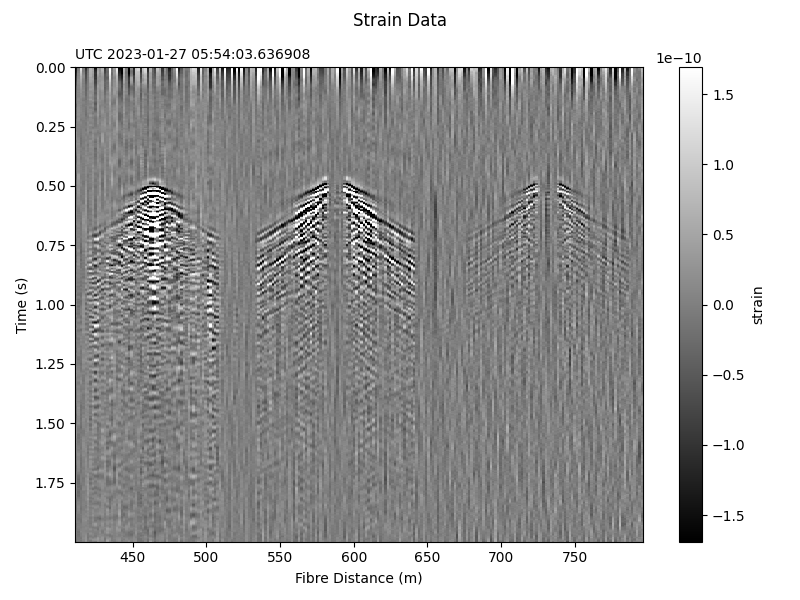
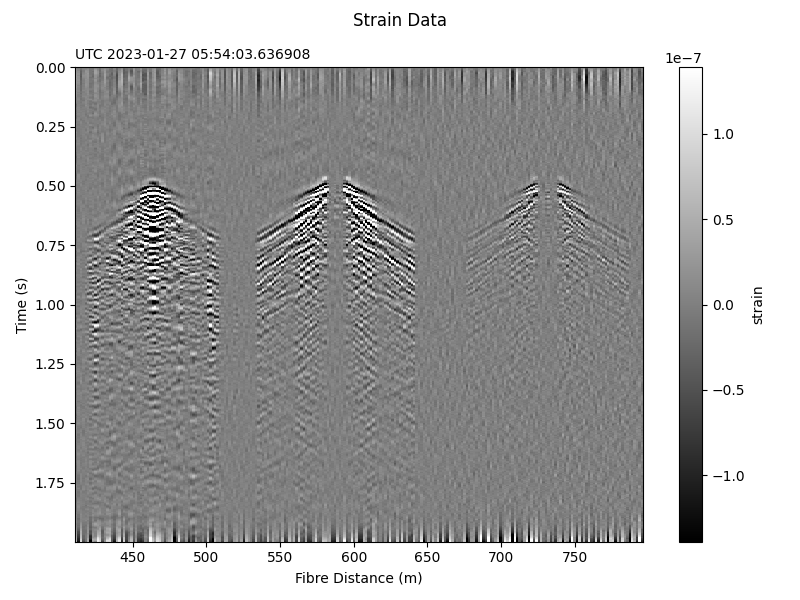
Added scripts to convert and re-save velocity HDF5 files in strainrate and strain. Update strain conversion in convert_to_strain.py

diff --git a/HDF5_samples/convert_hdf5_velocity_to_strain.py b/HDF5_samples/convert_hdf5_velocity_to_strain.py
@@ -1,0 +1,169 @@
+"""
+Convert a terra15 HDF5 file containing velocity data to a strain dataset with a specified gauge length and high-pass filter.
+Generates a new HDF5 file containing converted strain data.
+"""
+
+#####################################################################################################################
+# File to convert. Must be a Terra15 Treble .hdf5 data file in units of velocity.
+src_file = "../sample_data/example_triggered_shot.hdf5"
+GAUGE_LENGTH = 5 # (m)
+# High-pass filter cutoff frequency (Hz) applied to the strainrate data before integration to strain.
+HIGH_PASS_FREQ = 4 # (Hz)
+######################################################################################################################
+
+
+import h5py
+import numpy as np
+from scipy import signal
+import matplotlib.pyplot as plt
+
+
+def convert_velocity_to_strain(velocity, dx, dt, gauge_length_m, f_hp=0.1):
+    # First convert velocity to strainrate
+    strainrate, L_gauge = convert_velocity_to_strainrate(velocity, gauge_length_m, dx)
+
+    # Returns strain and exact gauge length
+    return convert_strainrate_to_strain(strainrate, dt, f_hp), L_gauge
+
+
+def convert_velocity_to_strainrate(velocity, gauge_length_m, dx):
+    n_gauge = int(round(gauge_length_m / dx))
+    L_gauge = n_gauge * dx
+    strainrate = (velocity[:, n_gauge:] - velocity[:, :-n_gauge]) / L_gauge
+    # Returns strainrate and exact gauge length
+    return strainrate, L_gauge
+
+
+def convert_strainrate_to_strain(strainrate, dt, f_hp=0.1):
+    # High-pass filter data at cutoff frequency f_hp
+    strainrate = highpass_filter(strainrate, f_hp, dt)
+
+    # Integrate filtered strainrate to strain
+    omega_0 = 2*np.pi*f_hp
+    b = np.array([dt, 0], dtype=strainrate.dtype)
+    a = np.array([1 + omega_0*dt,-1], dtype=strainrate.dtype)
+    strain = signal.lfilter(b, a, strainrate, axis=0)
+    return strain
+
+
+def highpass_filter(data, f_hp, dt):
+    fs = 1/dt
+    coeff = signal.butter(1, f_hp, btype="hp", fs=fs, output="sos")
+    data = signal.sosfiltfilt(coeff, data, axis=0)
+    return data.astype(data.dtype)
+
+
+def plot_data(data, t, x, title, fname=None):
+    plt.figure(figsize=(8, 6))
+
+    t_rel = t - t[0]
+
+    clim = np.max(np.abs(data))/10
+
+    plt.title(title, loc="center", fontsize=12)
+
+    plt.imshow(
+        data,
+        aspect="auto",
+        cmap="gray",
+        extent=(x[0], x[-1], t_rel[-1], t_rel[0]),
+        vmin=-clim,
+        vmax=clim,
+        interpolation="none"
+    )
+
+    cbar = plt.colorbar()
+
+    plt.xlabel("Fibre Distance (m)")
+    plt.ylabel("Time (s)")
+    plt.tight_layout()
+    if fname is not None:
+        plt.savefig(fname, dpi=300)
+
+
+def simple_load_data(hdf_path):
+    with h5py.File(hdf_path, "r") as f:
+        metadata = dict(f.attrs)
+        data = f["data_product/data"][:]
+        t = f["data_product/gps_time"][:]
+        x = metadata['sensing_range_start'] + np.arange(0, metadata['nx']) * metadata["dx"]
+        return data, metadata, t, x
+
+
+def convert_hdf5_to_strain(src_file, gauge_length_m, f_hp=0.1):
+    if src_file.endswith('.hdf5'):
+        dst_file = src_file.replace(".hdf5", f'converted_strainrate_{gauge_length_m}m_gauge.hdf5')
+    else:
+        raise ValueError("Source file must be an HDF5 file")
+    print(f"Converting {src_file} to strain with GAUGE {gauge_length_m} m, HP filter {f_hp} Hz")
+
+    # Check source file for velocity data
+    with h5py.File(src_file, 'r') as src_hdf:
+        if src_hdf.attrs['data_product'] != 'velocity':
+            print(f"Source file {src_file} does not contain velocity data")
+            return None
+
+        else:
+            # Recreate source file at destination location
+            with h5py.File(dst_file, "w") as dst_hdf:
+                # Copy top-level attributes
+                dst_hdf.attrs.update(src_hdf.attrs)
+
+                # Copy groups and datasets except the data_product dataset
+                for src_group_name, src_group in src_hdf.items():
+                    print(f"Copying group: {src_group_name}")
+                    dest_group = dst_hdf.create_group(src_group_name)
+                    for source_dset_name, source_dset in src_group.items():
+                        if source_dset_name == "data":
+                            # Copy and convert velocity dataset
+                            print(f"    Copying and converting dataset: {source_dset_name}")
+                            dx = dst_hdf.attrs['dx']
+                            dt = dst_hdf.attrs['dt_computer']
+                            velocity_data = source_dset[:]
+                            strain_data, L_gauge = convert_velocity_to_strain(velocity_data, dx, dt, gauge_length_m, f_hp)
+
+                            # Create the strain dataset
+                            dest_dataset = dest_group.create_dataset(source_dset_name, data=strain_data, dtype=source_dset.dtype)
+                            # Copy the attributes from the velocity dataset
+                            vel_attrs = dict(source_dset.attrs)
+                            dest_dataset.attrs.update(vel_attrs)
+
+                        else:
+                            print(f"    Copying dataset: {source_dset_name}")
+                            # Copies other datasets exactly
+                            dest_dataset = dest_group.create_dataset(source_dset_name, data=source_dset,
+                                                                     dtype=source_dset.dtype)
+                            dest_dataset.attrs.update(source_dset.attrs)
+
+                # Update the top-level attributes to strain
+                dst_hdf.attrs['data_product'] = 'strain'
+                dst_hdf.attrs['data_product_units'] = 'm/m'
+                dst_hdf.attrs['gauge_length'] = L_gauge
+
+        print(f"Converted data saved in {dst_file}")
+
+        return dst_file
+
+
+
+# Test load the original data
+data, md, t, x = simple_load_data(src_file)
+plot_data(data, t, x,
+          title=f"Velocity Data\n"
+                f"Pulse Length = {md['pulse_length']:.2f}m",
+          fname="convert_hdf5_velocity_to_strain_1.png")
+
+print(f"Original data shape: {data.shape}")
+
+# Perform the copy and transformation
+dst_file = convert_hdf5_to_strain(src_file, GAUGE_LENGTH, HIGH_PASS_FREQ)
+
+# Test load the converted data
+data, md, t, x = simple_load_data(dst_file)
+plot_data(data, t, x,
+          title=f"File converted to strain.\n"
+                f"Pulse Length = {md['pulse_length']:.2f}m, Gauge Length={md['gauge_length']:.2f}m, HP Filter={HIGH_PASS_FREQ}Hz",
+          fname="convert_hdf5_velocity_to_strain_2.png")
+print(f"Converted data shape: {data.shape}")
+
+plt.show()

diff --git a/HDF5_samples/convert_hdf5_velocity_to_strainrate.py b/HDF5_samples/convert_hdf5_velocity_to_strainrate.py
@@ -1,0 +1,130 @@
+"""
+Convert a terra15 HDF5 file containing velocity data to a strainrate dataset with a specified gauge length and high-pass filter.
+Generates a new HDF5 file containing converted strainrate data.
+"""
+
+#####################################################################################################################
+# File to convert. Must be a Terra15 Treble .hdf5 data file in units of velocity.
+src_file = "../sample_data/example_triggered_shot.hdf5"
+GAUGE_LENGTH = 5 # (m)
+######################################################################################################################
+
+import h5py
+import numpy as np
+import matplotlib.pyplot as plt
+
+
+def convert_velocity_to_strainrate(data, gauge_length_m, dx):
+    gauge_samples = int(round(gauge_length_m / dx))
+    exact_gauge = gauge_samples * dx
+    return (data[:, gauge_samples:] - data[:, :-gauge_samples]) / exact_gauge, exact_gauge
+
+
+def plot_data(data, t, x, title, fname=None):
+    plt.figure(figsize=(8, 6))
+
+    t_rel = t - t[0]
+
+    clim = np.max(np.abs(data))/10
+
+    plt.title(title, loc="center", fontsize=12)
+
+    plt.imshow(
+        data,
+        aspect="auto",
+        cmap="gray",
+        extent=(x[0], x[-1], t_rel[-1], t_rel[0]),
+        vmin=-clim,
+        vmax=clim,
+        interpolation="none"
+    )
+
+    cbar = plt.colorbar()
+
+    plt.xlabel("Fibre Distance (m)")
+    plt.ylabel("Time (s)")
+    plt.tight_layout()
+    if fname is not None:
+        plt.savefig(fname, dpi=300)
+
+
+def simple_load_data(hdf_path):
+    with h5py.File(hdf_path, "r") as f:
+        metadata = dict(f.attrs)
+        data = f["data_product/data"][:]
+        t = f["data_product/gps_time"][:]
+        x = metadata['sensing_range_start'] + np.arange(0, metadata['nx']) * metadata["dx"]
+        return data, metadata, t, x
+
+
+def convert_hdf5_to_strainrate(src_file, gauge_length_m):
+    if src_file.endswith('.hdf5'):
+        dst_file = src_file.replace(".hdf5", f'converted_strainrate_{gauge_length_m}m_gauge.hdf5')
+    else:
+        raise ValueError("Source file must be an HDF5 file")
+    print(f"Converting {src_file} to strainrate with GAUGE {gauge_length_m} m")
+
+    # Check source file for velocity data
+    with h5py.File(src_file, 'r') as src_hdf:
+        if src_hdf.attrs['data_product'] != 'velocity':
+            print(f"Source file {src_file} does not contain velocity data")
+            return None
+
+        else:
+            # Recreate source file at destination location
+            with h5py.File(dst_file, "w") as dst_hdf:
+                # Copy top-level attributes
+                dst_hdf.attrs.update(src_hdf.attrs)
+
+                # Copy groups and datasets except the data_product dataset
+                for src_group_name, src_group in src_hdf.items():
+                    print(f"Copying group: {src_group_name}")
+                    dest_group = dst_hdf.create_group(src_group_name)
+                    for source_dset_name, source_dset in src_group.items():
+                        if source_dset_name == "data":
+                            # Copy and convert velocity dataset
+                            print(f"    Copying and converting dataset: {source_dset_name}")
+                            dx = dst_hdf.attrs['dx']
+                            velocity_data = source_dset[:]
+                            strainrate_data, L_gauge = convert_velocity_to_strainrate(velocity_data, gauge_length_m, dx)
+
+                            # Create the strainrate dataset
+                            dest_dataset = dest_group.create_dataset(source_dset_name, data=strainrate_data)
+                            # Copy the attributes from the velocity dataset
+                            vel_attrs = dict(source_dset.attrs)
+                            dest_dataset.attrs.update(vel_attrs)
+
+                        else:
+                            print(f"    Copying dataset: {source_dset_name}")
+                            # Copies other datasets exactly
+                            dest_dataset = dest_group.create_dataset(source_dset_name, data=source_dset, dtype=source_dset.dtype)
+                            dest_dataset.attrs.update(source_dset.attrs)
+
+                # Update the top-level attributes to strainrate
+                dst_hdf.attrs['data_product'] = 'strainrate'
+                dst_hdf.attrs['data_product_units'] = '1/s'
+                dst_hdf.attrs['gauge_length'] = L_gauge
+
+            print(f"Converted data saved in {dst_file}")
+
+            return dst_file
+
+
+# Test load the original data
+data, md, t, x = simple_load_data(src_file)
+plot_data(data, t, x,
+          title=f"Velocity Data\n"
+                f"Pulse Length = {md['pulse_length']:.2f}m",
+          fname="convert_hdf5_velocity_to_strainrate_1.png")
+
+# Perform the copy and transformation
+dst_file = convert_hdf5_to_strainrate(src_file, GAUGE_LENGTH)
+
+# Test load the converted data
+data, md, t, x = simple_load_data(dst_file)
+plot_data(data, t, x,
+          title=f"File converted to strainrate\n"
+                f"Pulse Length = {md['pulse_length']:.2f}m, Gauge Length={md['gauge_length']:.2f}m",
+          fname="convert_hdf5_velocity_to_strainrate_2.png")
+
+plt.show()

diff --git a/HDF5_samples/convert_to_strain.py b/HDF5_samples/convert_to_strain.py
@@ -2,13 +2,15 @@
 
 import h5py
 import matplotlib.pyplot as plt
-from scipy.signal import lfilter, lfilter_zi
+from scipy.signal import lfilter, butter, sosfiltfilt
 import numpy as np
 from datetime import datetime
 
 ### Set parameters ###############################################################
 fname = r"../sample_data/example_triggered_shot.hdf5"
 T_DURATION = 2 # (s)
+# High-pass filter cutoff frequency (Hz) applied to the strainrate data before integration to strain.
+F_HP = 4 # (Hz)
 ##########################################################################################
 
 
@@ -73,26 +75,29 @@ def plot_data(data, t, x, title=None, units=None, axis=None, cmap="gray"):
     plt.ylabel("Time (s)")
     plt.tight_layout()
 
-def convert_strainrate_to_strain(data, dT):
-    strain_scalar = dT
-    leaky_characteristic_period = 0.4
+def convert_strainrate_to_strain(strainrate, dt, f_hp=0.1):
+    # High-pass filter data at cutoff frequency f_hp
+    strainrate = highpass_filter(strainrate, f_hp, dt)
 
-    # Construct leaky integration filter to convert strain to strain rate
-    b = 0.5 * strain_scalar * np.array([dT, dT])
-    w0 = 2 * np.pi / leaky_characteristic_period
-    a = np.array([w0 * dT / 2 + 1, w0 * dT / 2 - 1])
-    zi=lfilter_zi(b, a)*data[0]
+    # Integrate filtered strainrate to strain
+    omega_0 = 2*np.pi*f_hp
+    b = np.array([dt, 0], dtype=strainrate.dtype)
+    a = np.array([1 + omega_0*dt,-1], dtype=strainrate.dtype)
+    strain = lfilter(b, a, strainrate, axis=0)
+    return strain
 
-    filtered_data, z_out = lfilter(b, a, data, axis=0, zi=zi[:,None].T)
 
-    return filtered_data
-
+def highpass_filter(data, f_hp, dt):
+    fs = 1/dt
+    coeff = butter(1, f_hp, btype="hp", fs=fs, output="sos")
+    data = sosfiltfilt(coeff, data, axis=0)
+    return data.astype(data.dtype)
 
 velocity, metadata, t, x = simple_load_data(fname, T_DURATION)
 
 strainrate = convert_velocity_to_strainrate(velocity, metadata['pulse_length'], metadata['dx'])
 x = correct_gauge_length_offset(x, metadata['pulse_length'])
-strain = convert_strainrate_to_strain(strainrate, metadata['dt_computer'])
+strain = convert_strainrate_to_strain(strainrate, metadata['dt_computer'], F_HP)
 
 plot_data(strainrate, t, x, "Strainrate Data", units="strainrate (strain/s)")
 plt.savefig("convert_to_strain_1.png")
